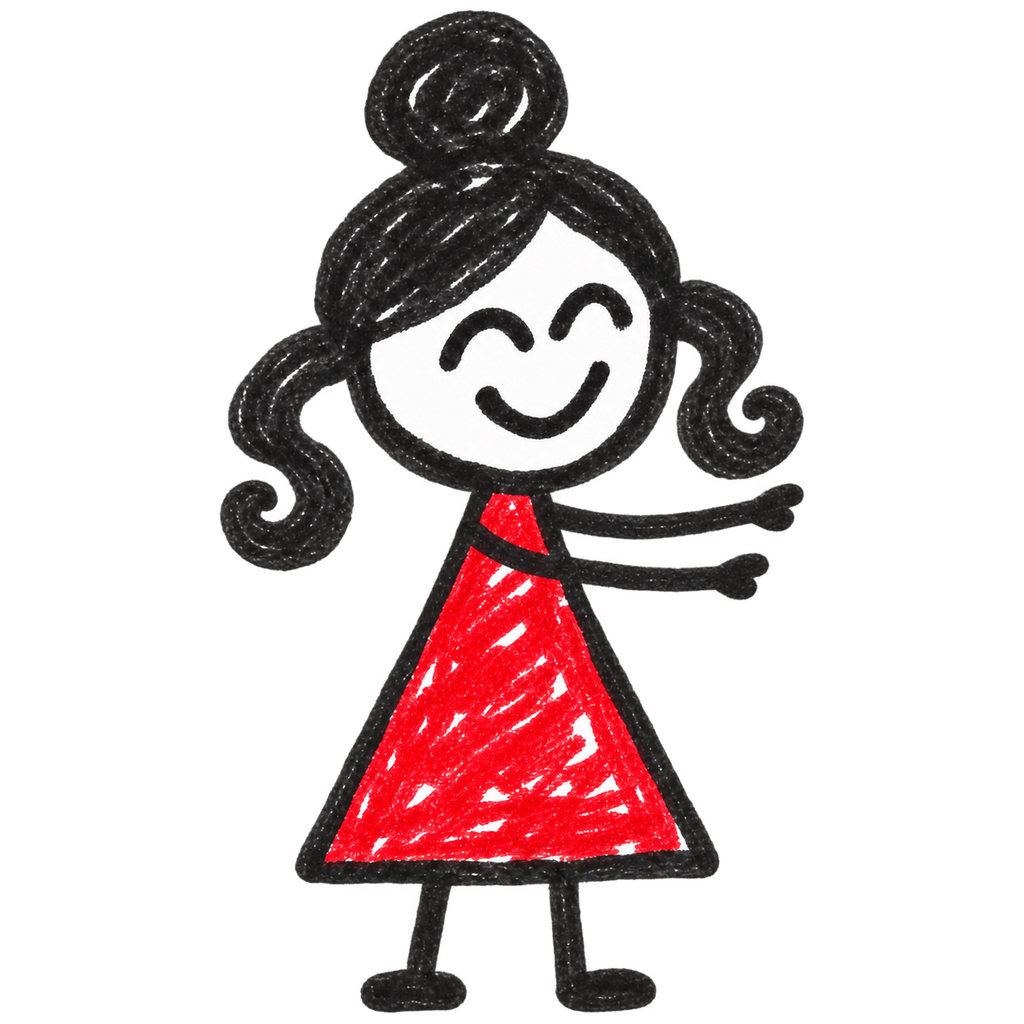
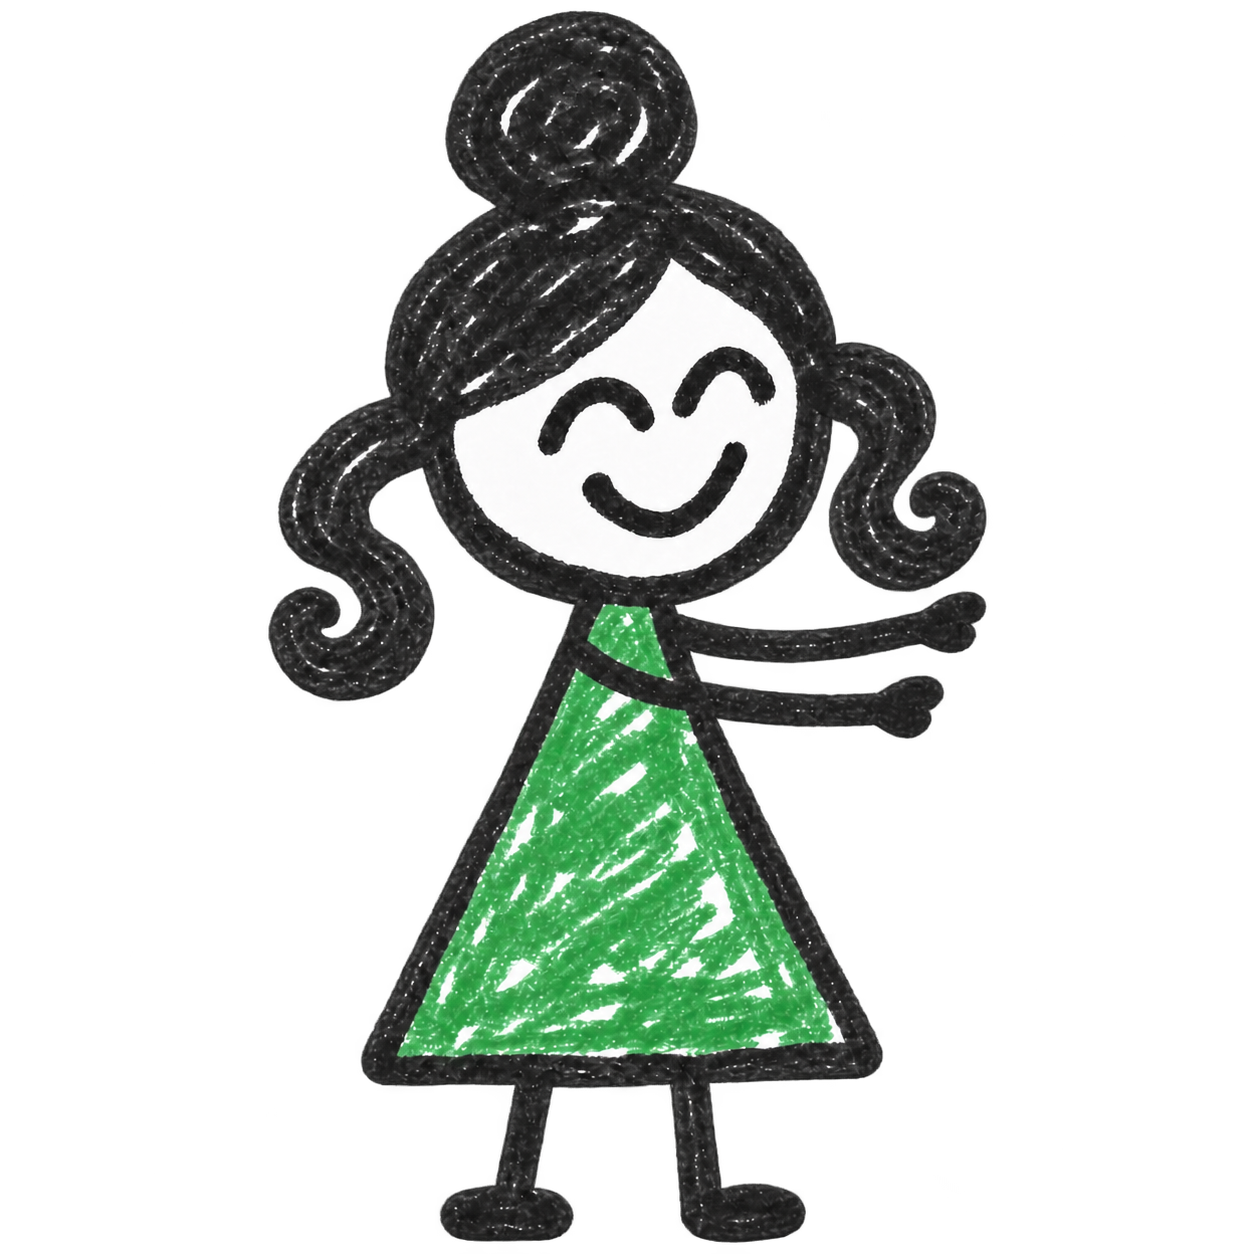
改进 => 区分四位家人的服装配色

diff --git a/AGENTS.md b/AGENTS.md
@@ -208,11 +208,16 @@ Build app UI in `src/`. Keep `.openai/hosting.json`, `worker/index.js`, `scripts
 
 - 用户选定保留清怪后放行，并明确提示剩余怪物的位置。保留战区栅栏；靠近时说明清怪开门，箭头指向当前波最近的剩余怪物，屏幕外提示方向、屏幕内标记位置；包括活着的召唤子怪。保留现有第 11 版存档进度。
 
+## 四人衣服配色接入（2026-11-17）
+
+- 用户要求每位角色衣服颜色不同，现已接入爸爸蓝、妈妈绿、姐姐红、妹妹紫；站立、攻击、营地与角色选择使用同色素材，保留原画造型和身高差。这次只接入配色，四件传统兵器仍按各自授权范围处理。
+
+- 近战光刀提高基础伤害并放大刀光，营地和实战按同一命中范围绘制（2026-11-20）。
+
 ## 玩家攻击对冲（2026-11-20）
 
 - 仅近战挥斩能砍碎小怪和 BOSS 发出的攻击，每刀一发。修改抵消范围、碰撞优先级或派生攻击时读取 `docs/design/melee-lightblade/projectile-clash.md`。
 
-- 近战光刀提高基础伤害并放大刀光，营地和实战按同一命中范围绘制（2026-11-20）。
 
 ## 沙漠地图、攀岩与洞窟（2026-11-20）
 
